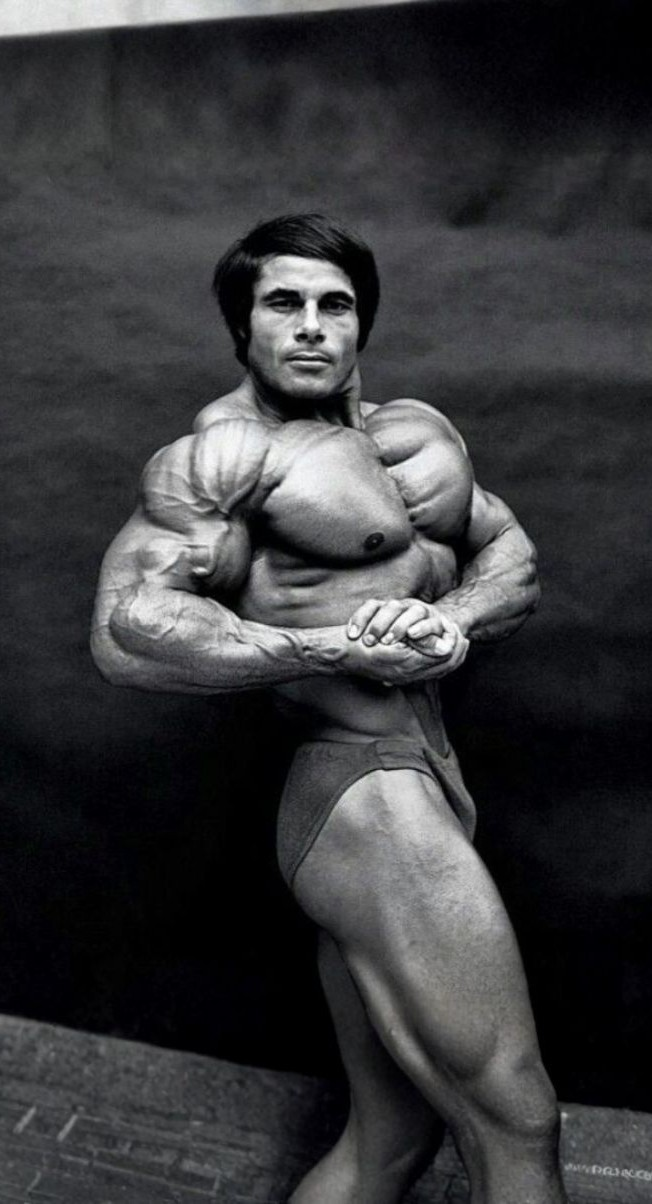
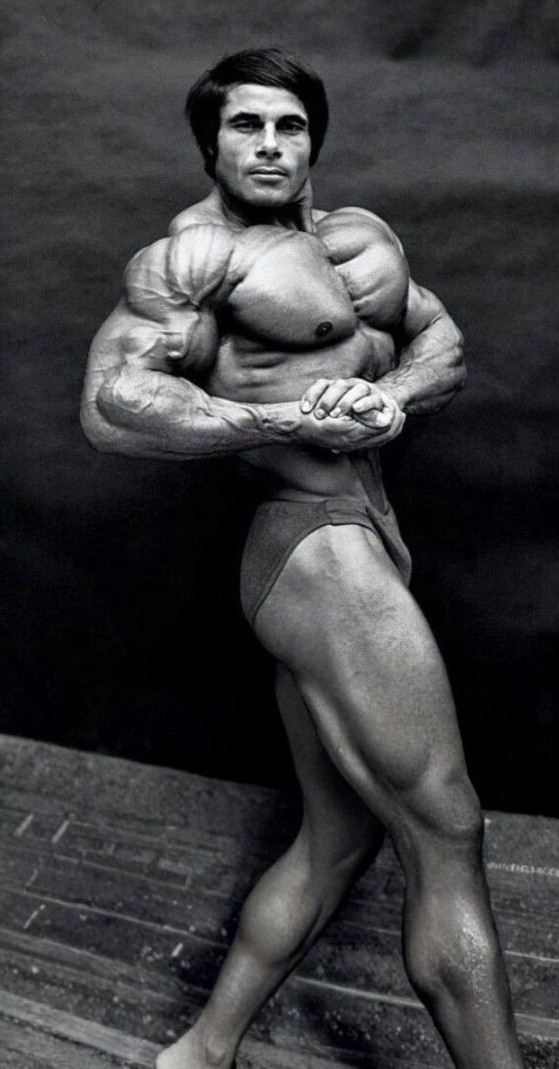
update

diff --git a/src/data/data-motivacional.js b/src/data/data-motivacional.js
@@ -43,7 +43,7 @@ export const pessoas =
     "Ronnie Coleman, o 'Rei' do fisiculturismo, começou sua carreira enquanto trabalhava como policial nos Estados Unidos. Equilibrava longos turnos de patrulha com treinos extremamente pesados, sempre com um sorriso no rosto. Ele se tornou oito vezes Mr. Olympia, mas sua trajetória não foi sem dor: após anos levantando cargas colossais, precisou passar por várias cirurgias na coluna. Mesmo assim, Ronnie continua sendo uma inspiração, mostrando uma mentalidade de aço e repetindo sua famosa frase: 'Yeah buddy! Lightweight baby!' para lembrar que nada é impossível com paixão e determinação.",
     frase: "Todo sacrifício vale a pena pelo resultado.",
     imagemName: "RonnieMotivacional",
-    imagemSrc: "ronnie-motivacional.jpg",
+    imagemSrc: "Ronnie-motivacional.jpg",
   },
   {
     id: 6,
@@ -79,8 +79,8 @@ export const pessoas =
     historia:
     "Lee Haney marcou a história do fisiculturismo com sua combinação de tamanho e elegância. Conquistou oito títulos consecutivos do Mr. Olympia, um recorde que só seria igualado anos depois por Ronnie Coleman. Conhecido por seu equilíbrio entre fé, família e esporte, Haney sempre pregou o treinamento inteligente e a importância da mente sobre o corpo. Sua filosofia de 'treinar para estimular, não para aniquilar' inspirou gerações a buscar longevidade e sabedoria no caminho da musculação.",
     frase: "Estimule o músculo, não o destrua.",
-    imagemName: "",
-    imagemSrc: "",
+    imagemName: "LeeMotivacional",
+    imagemSrc: "Lee-motivacional.jpg",
   },
   {
     id: 10,
@@ -88,7 +88,7 @@ export const pessoas =
     historia:
     "Franco Columbu, melhor amigo e parceiro de treino de Arnold Schwarzenegger, foi um exemplo de força bruta e determinação. Nascido na Sardenha, Itália, começou como boxeador antes de migrar para o fisiculturismo. Apesar de seu tamanho menor comparado a outros competidores, compensava com uma força e densidade muscular impressionantes, tornando-se bicampeão do Mr. Olympia. Fora dos palcos, era quiroprático e sempre defendeu a saúde e o equilíbrio como pilares da verdadeira força.",
     frase: "O corpo forte é apenas reflexo de uma mente ainda mais forte.",
-    imagemName: "",
+    imagemName: "FrancoMotivacional",
     imagemSrc: "Franco-motivacional.jpg",
   },
   {
